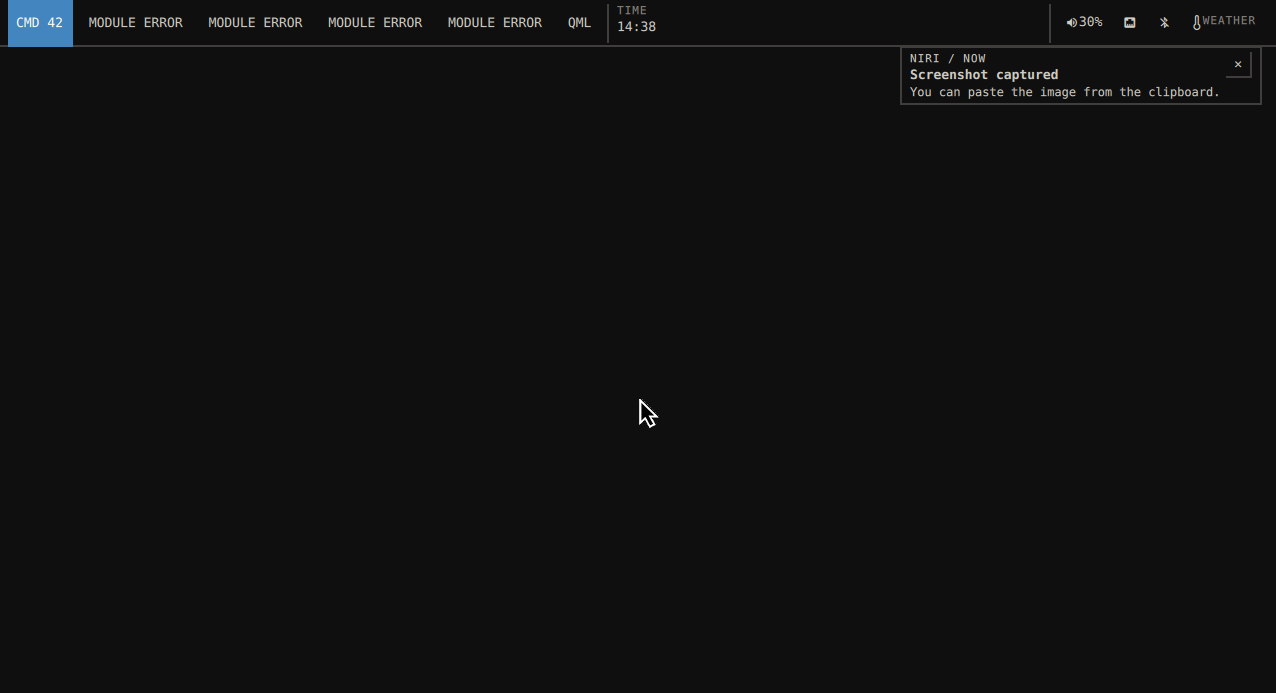
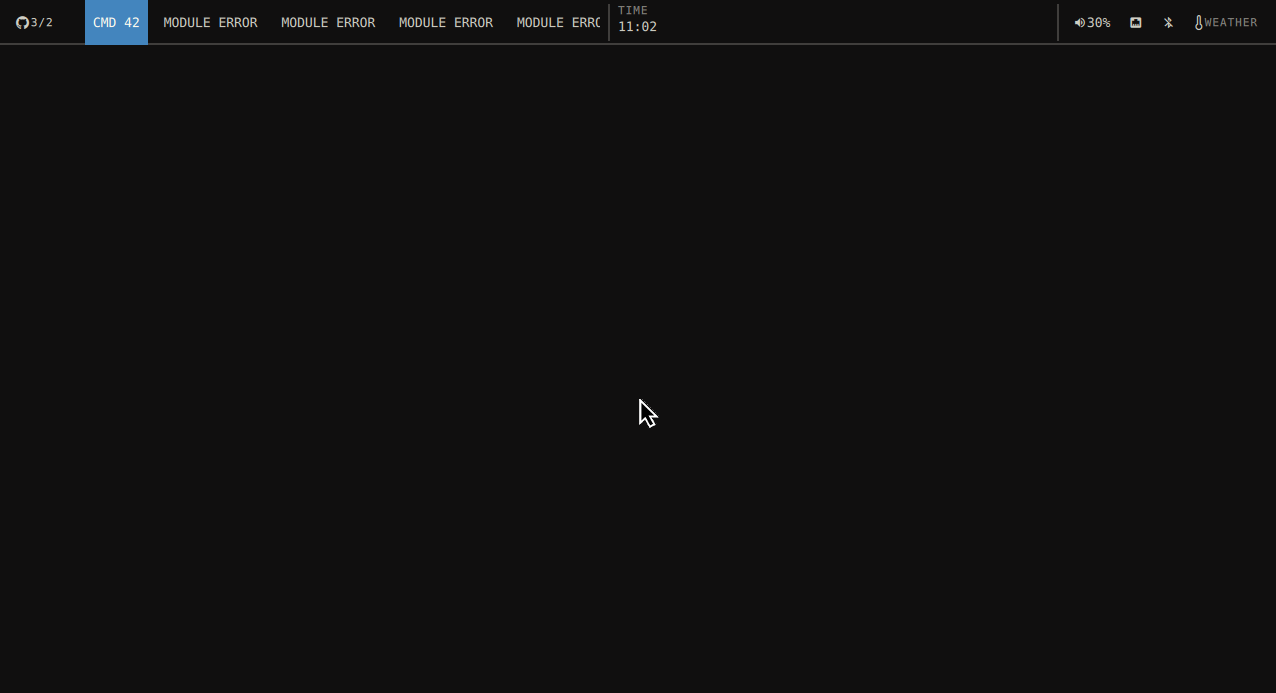
docs: cover m12 surfaces in usage/switchover and recapture screenshots

Changed region(s): [[0.0, 0.0, 1.0, 0.1515]]

diff --git a/docs/SWITCHOVER.md b/docs/SWITCHOVER.md
@@ -46,6 +46,20 @@ affected widget now exposes a `shown` property computed the same way its
 ever reading `.visible` across the Loader boundary. See §2 and the parity
 table below for the closed gap and its verification evidence.
 
+**Update, 2026-07-30 (M12):** the six DMS-parity gaps the owner ruled
+essential in the e1504g swap review are closed, per
+`docs/superpowers/plans/2026-07-30-m12-dms-parity-and-eds.md`: EDS/GNOME
+Online Accounts calendar events (via the `formalshell-eds` companion CLI —
+the one compiled binary in the shell, an owner-authorized spec amendment —
+plus RRULE expansion in `Calendar/ics.js`), menu calculator/emoji/
+nix-runner routes, an opt-in `github` bar widget, and a `screenshot` IPC
+target. All are VM-only verified (mac VM rig; both Linux hosts were offline
+for the whole milestone); the GOA OAuth path specifically — a real
+Google/Nextcloud account authenticated through GNOME Online Accounts
+feeding EDS — has never run anywhere, since the VM's evidence is EDS's
+local `system-calendar` only. See §2's resolved bullets and the seven new
+parity-table rows.
+
 ## 1. Parity table
 
 Evidence sources: the e1504g sweep at commit `1300b02`
@@ -65,13 +79,20 @@ hardware.
 | Bar | Hardware-verified | e1504g @ 1300b02, `artifacts/e1504g/plain.png`; g815 HEAD sweep @ 52e2db0, `artifacts/g815-head/plain.png` (`docs/screenshots/bar-niri.png`) — real BAT/Wi-Fi/Bluetooth cells the VM cannot produce, and confirms the `ca56dfc` padding fix (symmetric insets, no left/top-only gutter) on real hardware |
 | Bar: SNI tray | VM-only | mac VM rig @ bd20ef6, `dev/smoke-niri.sh --tray`, `docs/screenshots/tray-niri.png` — six real `dev/sni-stub.py` StatusNotifierItems collapse to three pinned cells plus a "+3" overflow drawer, which expands to "−3" over the same `tray expand` IPC call the overflow cell's own click takes; not yet re-swept on a real host |
 | Bar: indicators slot | VM-only | mac VM rig @ bd20ef6, `dev/smoke-niri.sh --notify`, `docs/screenshots/indicators-niri.png` — the DND bell-off glyph appears after `notifications setDnd true` over IPC; idle-inhibit shares the same widget and reactivity fix but has no dedicated smoke screenshot yet; not yet re-swept on a real host |
-| Bar: settings-driven layout + custom modules | VM-only | mac VM rig @ bd20ef6, `dev/smoke-niri.sh --bar-layout`, `docs/screenshots/bar-layout-niri.png` — a reordered left region led by six `bar.modules` entries: one happy-path `command` module (`CMD 42`), four exercising each of `CommandModule.qml`'s failure paths (all render the honest `MODULE ERROR` cell), and one `qml` module (`QML OK`); every other smoke mode's own screenshot, carrying no `bar` config, keeps proving the no-config fallback renders today's exact default arrangement; not yet re-swept on a real host |
+| Bar: settings-driven layout + custom modules | VM-only | mac VM rig @ bd20ef6, `dev/smoke-niri.sh --bar-layout` — a reordered left region led by six `bar.modules` entries: one happy-path `command` module (`CMD 42`), four exercising each of `CommandModule.qml`'s failure paths (all render the honest `MODULE ERROR` cell), and one `qml` module (`QML OK`); every other smoke mode's own screenshot, carrying no `bar` config, keeps proving the no-config fallback renders today's exact default arrangement; not yet re-swept on a real host. `docs/screenshots/bar-layout-niri.png` was recaptured 2026-07-30 with the M12 `github` cell heading the region, which pushes the `qml` module past the visible clip at the VM's 1276px width — its rendering stays proven by the bd20ef6 capture and `tests/tst_bar_layout.qml` |
+| Bar: github widget | VM-only | mac VM rig @ 8dfbe55, `dev/smoke-niri.sh --bar-layout` with a PATH-shimmed `gh` returning canned counts — `docs/screenshots/bar-layout-niri.png` (recaptured 2026-07-30) shows the octicon + `3/2` cell leading the custom left region; every default-layout mode's screenshot keeps proving the widget is absent without opt-in. Real `gh` auth states (`NO AUTH`, live counts) are host-trial territory |
 | Menu | Hardware-verified | e1504g @ 1300b02, `artifacts/e1504g/menu.png`; g815 HEAD sweep @ 52e2db0, `artifacts/g815-head/menu.png` (`docs/screenshots/menu-niri.png`) |
 | Panel: audio | Hardware-verified, fix now visually confirmed | e1504g @ 1300b02 found the percentage-lost-behind-elision defect (`artifacts/e1504g/panel-audio.png`); fixed at `4aad1d6`. **Closed:** the g815 HEAD sweep @ 52e2db0 re-screenshotted it against real long device names (`GB206 High Definition Audio Controll.`, `800 Series Chipset Family Audio Cont.`) at plausible non-1% percentages — `artifacts/g815-head/panel-audio.png` (`docs/screenshots/panels-niri.png`) |
 | Panel: network | Hardware-verified | e1504g @ 1300b02, `artifacts/e1504g/panel-network.png`; g815 HEAD sweep @ 52e2db0, `artifacts/g815-head/panel-network.png` — real SSID `kaiiserni` at 62% (the 0..1-scaling bug stayed fixed on a second real host) |
 | Panel: bluetooth | Hardware-verified, fix now visually confirmed | e1504g @ 1300b02 found the adapter-state title-case defect (`artifacts/e1504g/panel-bluetooth.png`); fixed at `4aad1d6`. **Closed:** the g815 HEAD sweep @ 52e2db0 re-screenshotted it against a real adapter and three real paired devices (`MX Master 3S M`, `CMF Headphone Pro`, `AirPods Pro`), status correctly uppercase `ENABLED` — `artifacts/g815-head/panel-bluetooth.png` |
 | Panel: power | Hardware-verified | e1504g @ 1300b02, `artifacts/e1504g/panel-power.png`; g815 HEAD sweep @ 52e2db0, `artifacts/g815-head/panel-power.png` — real battery 79%, uppercase `PENDING CHARGE`, correct active-profile highlight |
-| Panel: calendar | Hardware-verified | e1504g @ 1300b02, `artifacts/e1504g/panel-calendar.png`; g815 HEAD sweep @ 52e2db0, `artifacts/g815-head/panel-calendar.png` (`docs/screenshots/calendar-niri.png`) — real month grid, local-.ics fixture event |
+| Panel: calendar | Hardware-verified (ics path) | e1504g @ 1300b02, `artifacts/e1504g/panel-calendar.png`; g815 HEAD sweep @ 52e2db0, `artifacts/g815-head/panel-calendar.png` — real month grid, local-.ics fixture event. `docs/screenshots/calendar-niri.png` was recaptured 2026-07-30 from the mac VM to show the M12 EDS backend alongside it (both fixture events under `TODAY`) |
+| Calendar: EDS/GOA events | VM-only | mac VM rig @ 57efc97, `dev/smoke-niri.sh --panel calendar` — the rig seeds one real VEVENT over `formalshell-eds seed` into EDS's `system-calendar` on the run's private session bus, the service reads it back through `formalshell-eds events`, and the screenshot shows both the ics and the EDS fixture events under `TODAY` (`docs/screenshots/calendar-niri.png`, recaptured 2026-07-30). The GOA OAuth path (a real online account feeding EDS) has never run anywhere — the VM has no GOA account, so that leg is real-host-trial territory |
+| Calendar: RRULE expansion | VM-only | `tests/tst_calendar_ics.qml` @ aa3c61a — bounded expansion of FREQ=DAILY/WEEKLY/MONTHLY/YEARLY with INTERVAL/COUNT/UNTIL/weekly-BYDAY/EXDATE, unsupported rules falling back to a single occurrence. Pure-JS logic, so the headless tests are the whole evidence; there is nothing to screenshot |
+| Menu: calculator | VM-only | mac VM rig @ 61da420, `dev/smoke-niri.sh --menu` — `debug query "2+2*3"` returns the `= 8` CALC row as the first ranked result (the run's `calc-query.json` artifact); parser edge cases in `tests/tst_menu_calc.qml` |
+| Menu: emoji | VM-only | mac VM rig @ 913d9a3, `dev/smoke-niri.sh --menu` — `debug query ":e thumbs"` returns the 👍 THUMBS UP row from the vendored `emoji.json` (the run's `emoji-query.json` artifact); dataset load + search in `tests/tst_menu_emoji.qml` |
+| Menu: nix runner | VM-only | mac VM rig @ 76757d5, `dev/smoke-niri.sh --menu` — two-pass `debug query ":nix hello"` against the PATH-shimmed `nix` returns the canned `hello` attr row after the 500ms debounce (the run's `nix-query.json` artifact). Real `nix search`/`ghostty` spawn behaviour is host-trial territory |
+| Screenshot IPC | VM-only | mac VM rig @ fd56a5f, `dev/smoke-niri.sh --screenshot` — `screenshot full`'s replied path exists as a valid PNG and `wl-paste --list-types` offers `image/png` in-session; `region`'s slurp leg needs a human dragging a rectangle, so it has no headless evidence |
 | Panel: weather | **Unverified** | Never included in any real-hardware sweep (neither e1504g's 18-mode run, the older g815 run, nor the 2026-07-29 g815 HEAD resweep drove `--panel weather`); only ad hoc dev-loop crops exist in `artifacts/` (`weather-crop*.png`), not a hardware or a repeatable VM smoke run |
 | Notifications | Hardware-verified | e1504g @ 1300b02, `artifacts/e1504g/notify.png`, `notify-center.png`; g815 HEAD sweep @ 52e2db0, `artifacts/g815-head/notify.png`, `notify-center.png` (`docs/screenshots/notifications-niri.png`) |
 | OSD | Hardware-verified, fix now confirmed on real PipeWire | e1504g @ 1300b02 found the auto-show reactivity defect (`osd-volume.png` never updated on an external `wpctl set-volume`); manual volume/brightness legs passed (`osd-manual.png`, `osd-brightness.png`). Fixed at `4aad1d6` (wrong signal name, `onVolumeChanged` vs `onVolumesChanged`). **Closed:** the g815 HEAD sweep @ 52e2db0 fired a real `wpctl set-volume @DEFAULT_AUDIO_SINK@ 30%` against a real PipeWire graph and the OSD auto-showed correctly — `artifacts/g815-head/osd-auto.png` (`docs/screenshots/osd-niri.png`), brightness leg cross-checked against the real `nvidia_wmi_ec_backlight` (100/100) |
@@ -90,18 +111,25 @@ Hyprland backend has never run on either Linux host — it exists only as
 
 ## 2. Known gaps and rough edges
 
-- **Calendar events are local `.ics` only, not GNOME Online Accounts/EDS.**
-  `docs/spikes/2026-07-28-eds-calendar-events.md` spiked reading Evolution
-  Data Server's D-Bus calendar API directly and concluded it isn't feasible
-  without a compiled client (EDS ties its calendar-view D-Bus object to the
-  lifetime of the specific connection that opened it, which a stateless
-  `Process`-based `gdbus` call can't hold open) — recorded as a post-v1 item,
-  `evolution-data-server` removed from the VM again rather than left
-  half-working. `Calendar/ics.js` reads a khal/vdir-style directory instead.
-- **No RRULE expansion.** `Calendar/ics.js` (per `docs/ARCHITECTURE.md`)
-  reads single `VEVENT`s only — a recurring event's `RRULE` field is not
-  expanded into instances. A user with recurring calendar entries will see
-  the first occurrence only.
+- **Resolved 2026-07-30 (M12): calendar events now read EDS/GNOME Online
+  Accounts, not just local `.ics`.** The spike's blocker (EDS ties its
+  calendar objects to the lifetime of the one connection that opened them,
+  which no stateless `gdbus` chain can hold) is closed by the
+  `formalshell-eds` companion CLI — one process, one held sd-bus
+  connection, raw ICS on stdout into the same parser — under an explicit
+  owner override of the no-compiled-binary rule (spec addendum,
+  2026-07-30). VM-only verified: the smoke rig seeds and reads back a real
+  VEVENT through EDS's `system-calendar` (parity table). **The GOA OAuth
+  path — a real online account authenticated through GNOME Online Accounts
+  feeding EDS — has still never run anywhere** and is exactly what the
+  real-host trial must prove.
+- **Resolved 2026-07-30 (M12): RRULE expansion.** `Calendar/ics.js` now
+  expands recurring `VEVENT`s into instances within the query window
+  (FREQ=DAILY/WEEKLY/MONTHLY/YEARLY, INTERVAL, COUNT, UNTIL, weekly BYDAY,
+  simple EXDATE — `tests/tst_calendar_ics.qml`). Rules outside that subset
+  (BYSETPOS, BYMONTHDAY, ordinal BYDAY, …) still fall back to a single
+  occurrence at DTSTART, documented in the file header — honest
+  under-expansion, not a silent guess.
 - **Hyprland backend is flaky in the sandboxed dev loop** and has never run
   on real hardware at all (see the parity table note above). Both niri and
   Hyprland implement the same formal `CompositorBackend` contract, but only
@@ -219,8 +247,11 @@ for the g815 switchover means:
 2. **Every row in the parity table above reading VM-only or unverified
    moves to hardware-verified** on at least one real host: the greeter, the
    lock screen's real-PAM paths, the weather panel, the Hyprland backend in
-   whatever form it's expected to be used, and now the tray, indicators
-   slot, and settings-driven bar layout M10 just added.
+   whatever form it's expected to be used, the tray, indicators slot, and
+   settings-driven bar layout M10 added, and now M12's six rows — EDS/GOA
+   calendar events (including the never-run GOA OAuth leg), RRULE
+   expansion, the calculator/emoji/nix menu routes, the github widget, and
+   the screenshot target.
 3. ~~The two fixed-but-unconfirmed defects (audio panel, Bluetooth panel)
    get a real re-sweep~~ — **done 2026-07-29**: the g815 HEAD resweep hit a
    real long device name and a real Bluetooth adapter, closing the loop the

diff --git a/docs/USAGE.md b/docs/USAGE.md
@@ -2,8 +2,8 @@
 
 Per-surface reference for FormalShell's IPC targets, config keys, and
 keybind examples — theming, menu, notifications, OSD, panels, clipboard,
-calendar, now playing, lock screen, screensaver, and picker. Product
-overview, screenshots, features, and install instructions live in
+calendar, now playing, lock screen, screensaver, picker, and screenshots.
+Product overview, screenshots, features, and install instructions live in
 [`README.md`](../README.md); the dev/verification loop lives in
 [`CLAUDE.md`](../CLAUDE.md).
 
@@ -19,6 +19,7 @@ overview, screenshots, features, and install instructions live in
 - [Lock screen](#lock-screen)
 - [Screensaver](#screensaver)
 - [Picker](#picker)
+- [Screenshots](#screenshots)
 
 ## Bar
 
@@ -42,7 +43,8 @@ arrangement:
 ```
 
 Builtin widget names: `workspaces`, `activeWindow`, `clock`, `nowPlaying`,
-`battery`, `audio`, `network`, `bluetooth`, `weather`, `tray`, `indicators`.
+`battery`, `audio`, `network`, `bluetooth`, `weather`, `tray`, `indicators`,
+`github` (opt-in only — never part of the default arrangement).
 An absent region falls back to its own default arrangement above (an
 absent `bar` key entirely is the same as an absent region for all three);
 a present-but-empty region (`[]`) stays empty. An unknown widget name, or
@@ -76,6 +78,16 @@ into one more cell (`+N`) that expands the row to reveal them all.
 while the condition holds; the whole slot disappears when neither does.
 Recording has no glyph yet — nothing in this shell or a reachable service
 reports screen recording as of 2026-07-29.
+
+**GitHub** — opt-in via `bar.layout` (add `"github"` to a region); polls one
+`gh api graphql` call every `github.intervalMs` (ms, default 300000) for the
+count of open PRs you authored and open issues assigned to you, rendered as
+a glyph + `N/M` meta cell. Click opens `github.com/notifications` via
+`xdg-open`. Honest states: `gh` missing from PATH hides the cell entirely;
+`gh` present but unauthenticated (its documented exit code 4) renders a dim
+`NO AUTH` cell; any other failure or unparsable output renders a dim `NO GH`
+cell — never stale or invented counts. The cell also stays hidden until the
+first poll answers at all.
 
 ```bash
 qs ipc --any-display -p <store-path>/share/formalshell call tray status     # {"items":[…],"expanded":…}
@@ -173,6 +185,30 @@ default entry (and its whole subtree) without needing to redeclare it:
 
 Each button becomes `system.custom.<i>` in the tree; `confirm: true` requires
 a second Enter on the row before the command runs (`CONFIRM <label>?`).
+
+**Calculator.** A root-menu query that parses as an arithmetic expression
+(`+ - * / % ^`, parentheses, unary minus, decimals — a real
+recursive-descent parser in `shell/Menu/calc.js`, never `eval`) leads the
+ranked results with a `= <result>` row carrying a full-bleed accent `CALC`
+tag; Enter copies the result via `wl-copy` and closes. `menu summon calc`
+opens a dedicated surface showing only that live result row. Parse failures
+are silent — no row, never an error row.
+
+**Emoji.** `menu summon emoji` opens a fuzzy name search over a vendored
+Unicode dataset (`shell/Menu/emoji.json` — fully-qualified `emoji-test.txt`
+entries, Emoji 17.0; regenerate with `dev/gen-emoji.sh`, never edit by
+hand). Rows render the char plus its uppercase name; Enter copies the char
+via `wl-copy` and closes, and the clipboard history captures it like any
+other copy. From anywhere, the root trigger `:e <query>` narrows to the
+same rows (`:e thumbs` → 👍); a bare `:e` browses the head of the list.
+
+**Nix package runner.** `menu summon nix` (or the `:nix <query>` root
+trigger) searches nixpkgs as you type: a debounced (500ms, one in-flight,
+stale results dropped) `nix search nixpkgs <query> --json`, rows showing
+attr name + version with a dimmed description. Enter spawns the package in
+a throwaway terminal (`ghostty -e sh -c 'nix run nixpkgs#<attr>; read'` —
+`read` holds the window open after it exits). No `nix` on PATH renders a
+single dim `NO NIX` row instead.
 
 **IPC.** Every route is summonable for direct compositor keybinds:
 `toggle(route)` (open if closed/close if open), `summon(route)` (always
@@ -293,7 +329,7 @@ binds {
 
 ## Panels
 
-Six per-widget popouts share one component, `shell/Components/Panel.qml` — a
+Seven per-widget popouts share one component, `shell/Components/Panel.qml` — a
 ledger-table popout (header `MetaLabel` row, rows sharing hairline rules,
 `WlrLayershell` top layer, keyboard `OnDemand`, closes on Escape and on
 click-outside) anchored under the bar cell that opened it, or falling back to
@@ -407,20 +443,57 @@ usual read-only-settings rule). Once both values resolve, the bar defaults
 to showing `LIFE` (% of life lived) instead of `YEAR`; a further
 double-click toggles back.
 
-**Events.** An EDS/GNOME-Online-Accounts D-Bus feasibility spike
-(`docs/spikes/2026-07-28-eds-calendar-events.md`) concluded **not feasible**
-in pure QML: Evolution Data Server reaps the calendar backend the moment a
-one-shot `gdbus`/`busctl` connection closes, and EDS's real client API needs
-`libecal`'s persistent connection handling, which `CLAUDE.md` forbids (no
-compiled companion binary). The implemented path instead is
-`CalendarEventsService` reading local `.ics` files (a khal/vdir-style
-directory) via `shell/Calendar/ics.js` (pure RFC 5545 VEVENT parsing, no
-RRULE expansion — a documented v1 limitation). `calendar.icsDir` in
-`settings.json` points at the directory; unset means zero events, the same
-honest-empty-state contract every other M6 panel follows. When set, days
-carrying an event get a small accent dot in the grid, and a `TODAY` ledger
-section below lists today's events by summary (or a single dim `NO EVENTS`
-row).
+**Events.** `CalendarEventsService` merges two coexisting backends by UID:
+
+- **Local `.ics` files** — `calendar.icsDir` in `settings.json` points at a
+  khal/vdir-style directory; unset means no local files, the same
+  honest-empty-state contract every other panel follows.
+- **EDS / GNOME Online Accounts** — `calendar.eds` (bool, default `true`)
+  reads Evolution Data Server over D-Bus via the `formalshell-eds`
+  companion CLI (M12; the one compiled binary in the shell, an owner-
+  authorized exception to the pure-QML rule — see the spec's 2026-07-30
+  addendum). The original spike
+  (`docs/spikes/2026-07-28-eds-calendar-events.md`) proved EDS's whole
+  `OpenCalendar -> Open -> GetObjectList` handshake must run over **one
+  held bus connection** — EDS reaps the backend the moment the calling
+  connection closes, so no chain of `gdbus`/`busctl` one-shots can work.
+  The CLI does the whole handshake in one process over one sd-bus
+  connection and prints raw ICS, which feeds the exact same
+  `shell/Calendar/ics.js` parser the local files use. Any calendar EDS
+  knows about — including Google/Nextcloud/… calendars added through GNOME
+  Online Accounts (GNOME Settings → Online Accounts; on NixOS the host
+  needs the GOA/EDS system services enabled, e.g.
+  `services.gnome.evolution-data-server.enable` +
+  `services.gnome.gnome-online-accounts.enable`) — shows up with zero
+  shell config. Unreachable EDS (no bus, no EDS installed) degrades
+  silently to ics-only after the first failed run: one console.warn, no
+  error cell, no retry storm.
+
+The CLI's contract (`formalshell-eds --help`):
+
+```
+formalshell-eds sources                       # JSON [{uid, displayName, backend}]
+formalshell-eds events [--days N] [--source UID ...]
+                                              # raw ICS, yesterday..today+N (default 45)
+formalshell-eds seed <summary> <YYYY-MM-DD>   # test-rig helper, writes one real VEVENT
+```
+
+`events` exits 0 with empty output when there are simply no events, and
+exits 1 with a stderr line only when the bus or EDS is unreachable — it
+never invents data. Refresh cadence for both backends: `icsDir` change,
+every 5 minutes, and calendar-panel open.
+
+Recurring events (`RRULE`) expand into concrete instances within the query
+window: `FREQ=DAILY/WEEKLY/MONTHLY/YEARLY`, `INTERVAL`, `COUNT`, `UNTIL`,
+`BYDAY` on weekly rules, and `EXDATE` as simple date matches. Anything
+outside that subset (`BYSETPOS`, `BYMONTHDAY`, ordinal `BYDAY` like `1MO`,
+…) leaves the anchoring event as a single occurrence at its `DTSTART` —
+honest under-expansion, never a guessed instance (`shell/Calendar/ics.js`'s
+header documents the full boundary).
+
+Days carrying an event get a small accent dot in the grid, and a `TODAY`
+ledger section below lists today's events by summary (or a single dim
+`NO EVENTS` row).
 
 ## Now playing
 
@@ -631,4 +704,39 @@ qs ipc --any-display -p <store-path>/share/formalshell call picker status   # {"
 
 # poll/read a select() answer, same convention as menu-selection.txt:
 cat $XDG_STATE_HOME/formalshell/picker-selection.txt
+```
+
+## Screenshots
+
+`shell/Ipc/ScreenshotIpc.qml` (M12 — a spec-addendum surface, same pattern
+as `panel`/`picker`) wraps grim/slurp behind one IPC target: `full` grabs
+the whole output, `region` runs `slurp` first for an interactive rectangle.
+Either way the capture lands as
+`<screenshot.directory>/screenshot-<timestamp>.png` (`screenshot.directory`
+in `settings.json`, default `~/Pictures/Screenshots`, created on first
+capture) AND on the clipboard as `image/png` via `wl-copy`, and a
+`SCREENSHOT SAVED` notification with the path fires through the shell's own
+notification stack — visible feedback with no bar surface involved.
+
+The IPC reply is the destination path the capture is writing toward, not a
+completion signal: `qs ipc call` replies synchronously while `slurp` blocks
+on user interaction indefinitely. A runtime failure (slurp cancelled, grim
+error) fires a `SCREENSHOT FAILED` notification and lands in `status()`'s
+`lastError` — loud and queryable, never a silent no-op.
+
+**IPC** (`target: "screenshot"`):
+
+```bash
+qs ipc --any-display -p <store-path>/share/formalshell call screenshot full     # replies with the destination path
+qs ipc --any-display -p <store-path>/share/formalshell call screenshot region   # slurp rectangle, then same pipeline
+qs ipc --any-display -p <store-path>/share/formalshell call screenshot status   # {"capturing":…,"lastPath":…,"lastError":…}
+```
+
+Bind both in niri, same pattern as every other target:
+
+```kdl
+binds {
+    Print { spawn "qs" "ipc" "--any-display" "-p" "<store-path>/share/formalshell" "call" "screenshot" "full"; }
+    Mod+Print { spawn "qs" "ipc" "--any-display" "-p" "<store-path>/share/formalshell" "call" "screenshot" "region"; }
+}
 ```

diff --git a/README.md b/README.md
@@ -12,13 +12,12 @@ modules so a consuming config needs almost no glue.
 
 ![FormalShell bar on niri](docs/screenshots/bar-niri.png)
 
-**Status:** pre-alpha. M1 through M11 (walking skeleton through the greeter
-and NixOS modules, bar completeness, screensaver effect gifs) are complete,
-behind CI (qmllint + headless qml-tests) and nested-compositor smoke loops
-for every change. M12 (DMS parity gaps + GOA/EDS calendar events,
-`docs/superpowers/plans/2026-07-30-m12-dms-parity-and-eds.md`) is in
-progress. See `docs/SWITCHOVER.md` for the current hardware-vs-VM
-verification parity table before switching a real machine over, and
+**Status:** pre-alpha. M1 through M12 (walking skeleton through the greeter
+and NixOS modules, bar completeness, screensaver effect gifs, DMS parity
+gaps + EDS/GOA calendar events) are complete, behind CI (qmllint + headless
+qml-tests) and nested-compositor smoke loops for every change. See
+`docs/SWITCHOVER.md` for the current hardware-vs-VM verification parity
+table before switching a real machine over, and
 `docs/superpowers/specs/2026-07-27-formalshell-design.md` for the full
 design.
 
@@ -30,16 +29,17 @@ session, and tears it down — safe to run against a live host by design.
 Most were recaptured 2026-07-29 from **g815**, the owner's real niri
 machine, showing genuinely populated hardware (real battery, Wi-Fi,
 Bluetooth, audio, backlight) rather than the VM's empty state. The greeter
-shot and the three M10 bar shots (tray, indicators, custom modules) are
-VM-sourced — no greetd module on g815 yet, and g815 hasn't been re-swept
-since M10 landed. Details on what each shot proves are in `CLAUDE.md`'s
-verification loop section (the `dev/smoke-niri.sh` flag each was captured
-with) and git history.
+shot, the M10 bar shots (tray, indicators, custom modules), and the two
+M12 recaptures (calendar with its EDS fixture event, custom modules with
+the github cell) are VM-sourced — no greetd module on g815 yet, and g815
+hasn't been re-swept since M10 landed. Details on what each shot proves are
+in `CLAUDE.md`'s verification loop section (the `dev/smoke-niri.sh` flag
+each was captured with) and git history.
 
 | | | |
 | :---: | :---: | :---: |
 | <img src="docs/screenshots/bar-niri.png" width="260"><br>**Bar** — g815 | <img src="docs/screenshots/menu-niri.png" width="260"><br>**Menu** — g815 | <img src="docs/screenshots/notifications-niri.png" width="260"><br>**Notifications** — g815 |
-| <img src="docs/screenshots/osd-niri.png" width="260"><br>**OSD** — g815 | <img src="docs/screenshots/panels-niri.png" width="260"><br>**Panels** — g815 | <img src="docs/screenshots/calendar-niri.png" width="260"><br>**Calendar** — g815 |
+| <img src="docs/screenshots/osd-niri.png" width="260"><br>**OSD** — g815 | <img src="docs/screenshots/panels-niri.png" width="260"><br>**Panels** — g815 | <img src="docs/screenshots/calendar-niri.png" width="260"><br>**Calendar** — mac VM |
 | <img src="docs/screenshots/clipboard-niri.png" width="260"><br>**Clipboard** — g815 | <img src="docs/screenshots/media-niri.png" width="260"><br>**Now playing** — g815 | <img src="docs/screenshots/lock-niri.png" width="260"><br>**Lock screen** — g815 |
 | <img src="docs/screenshots/screensaver-niri.png" width="260"><br>**Screensaver** — g815 | <img src="docs/screenshots/picker-niri.png" width="260"><br>**Picker** — g815 | <img src="docs/screenshots/greeter-niri.png" width="260"><br>**Greeter** — mac VM |
 | <img src="docs/screenshots/tray-niri.png" width="260"><br>**Tray** — mac VM | <img src="docs/screenshots/indicators-niri.png" width="260"><br>**Indicators** — mac VM | <img src="docs/screenshots/bar-layout-niri.png" width="260"><br>**Custom bar modules** — mac VM |
@@ -63,11 +63,13 @@ in **[`docs/USAGE.md`](docs/USAGE.md)**. In brief:
 
 - **Bar** — three regions (left/center/right): workspaces, active window, an
   SNI tray with a grouped overflow drawer, DND/idle-inhibit indicators,
-  clock, battery, audio, network/Bluetooth, weather, now playing — fully
-  reorderable from `settings.json`, plus custom `command` and `qml` widget
-  modules.
+  clock, battery, audio, network/Bluetooth, weather, now playing, an opt-in
+  GitHub PR/issue counter — fully reorderable from `settings.json`, plus
+  custom `command` and `qml` widget modules.
 - **Menu** — one fuzzy-searchable, keyboard-driven surface doubling as app
-  launcher, system/power menu, and a `select`/`input` dmenu replacement.
+  launcher, system/power menu, and a `select`/`input` dmenu replacement —
+  with an inline calculator row, an emoji picker (`:e`), and a nixpkgs
+  package runner (`:nix`) built in as routes.
 - **Notifications** — a mako-replacement stack: freedesktop server,
   independent card toasts, a summonable history center, a narrow DND bypass.
 - **OSD** — one jitter-free bottom-center card for volume, brightness, and
@@ -76,8 +78,9 @@ in **[`docs/USAGE.md`](docs/USAGE.md)**. In brief:
   bluetooth, power, weather, media) sharing one component and one IPC
   target.
 - **Clipboard** — capped, deduplicated history surfaced through the menu.
-- **Calendar** — month grid with a year/life-progress bar and local `.ics`
-  event support.
+- **Calendar** — month grid with a year/life-progress bar and events from
+  local `.ics` files and EDS/GNOME Online Accounts (via the
+  `formalshell-eds` companion CLI), with bounded RRULE expansion.
 - **Now playing** — an MPRIS-backed bar cell and panel, with optional Apple
   Music animated album art.
 - **Lock screen** — a real `WlSessionLock` + PAM, with the design's one
@@ -86,6 +89,8 @@ in **[`docs/USAGE.md`](docs/USAGE.md)**. In brief:
   convergence effects.
 - **Picker** — a ledger-grid wallpaper/image selector, also usable as a
   generic image-select IPC surface.
+- **Screenshots** — a `screenshot full`/`region` IPC target wrapping
+  grim/slurp: file, clipboard, and a notification in one call.
 - **Greeter** — a greetd session rendering as the lock screen's visual twin,
   with real PAM authentication.
 - **Theming** — wallpaper-driven matugen colors recolor every bar token and
